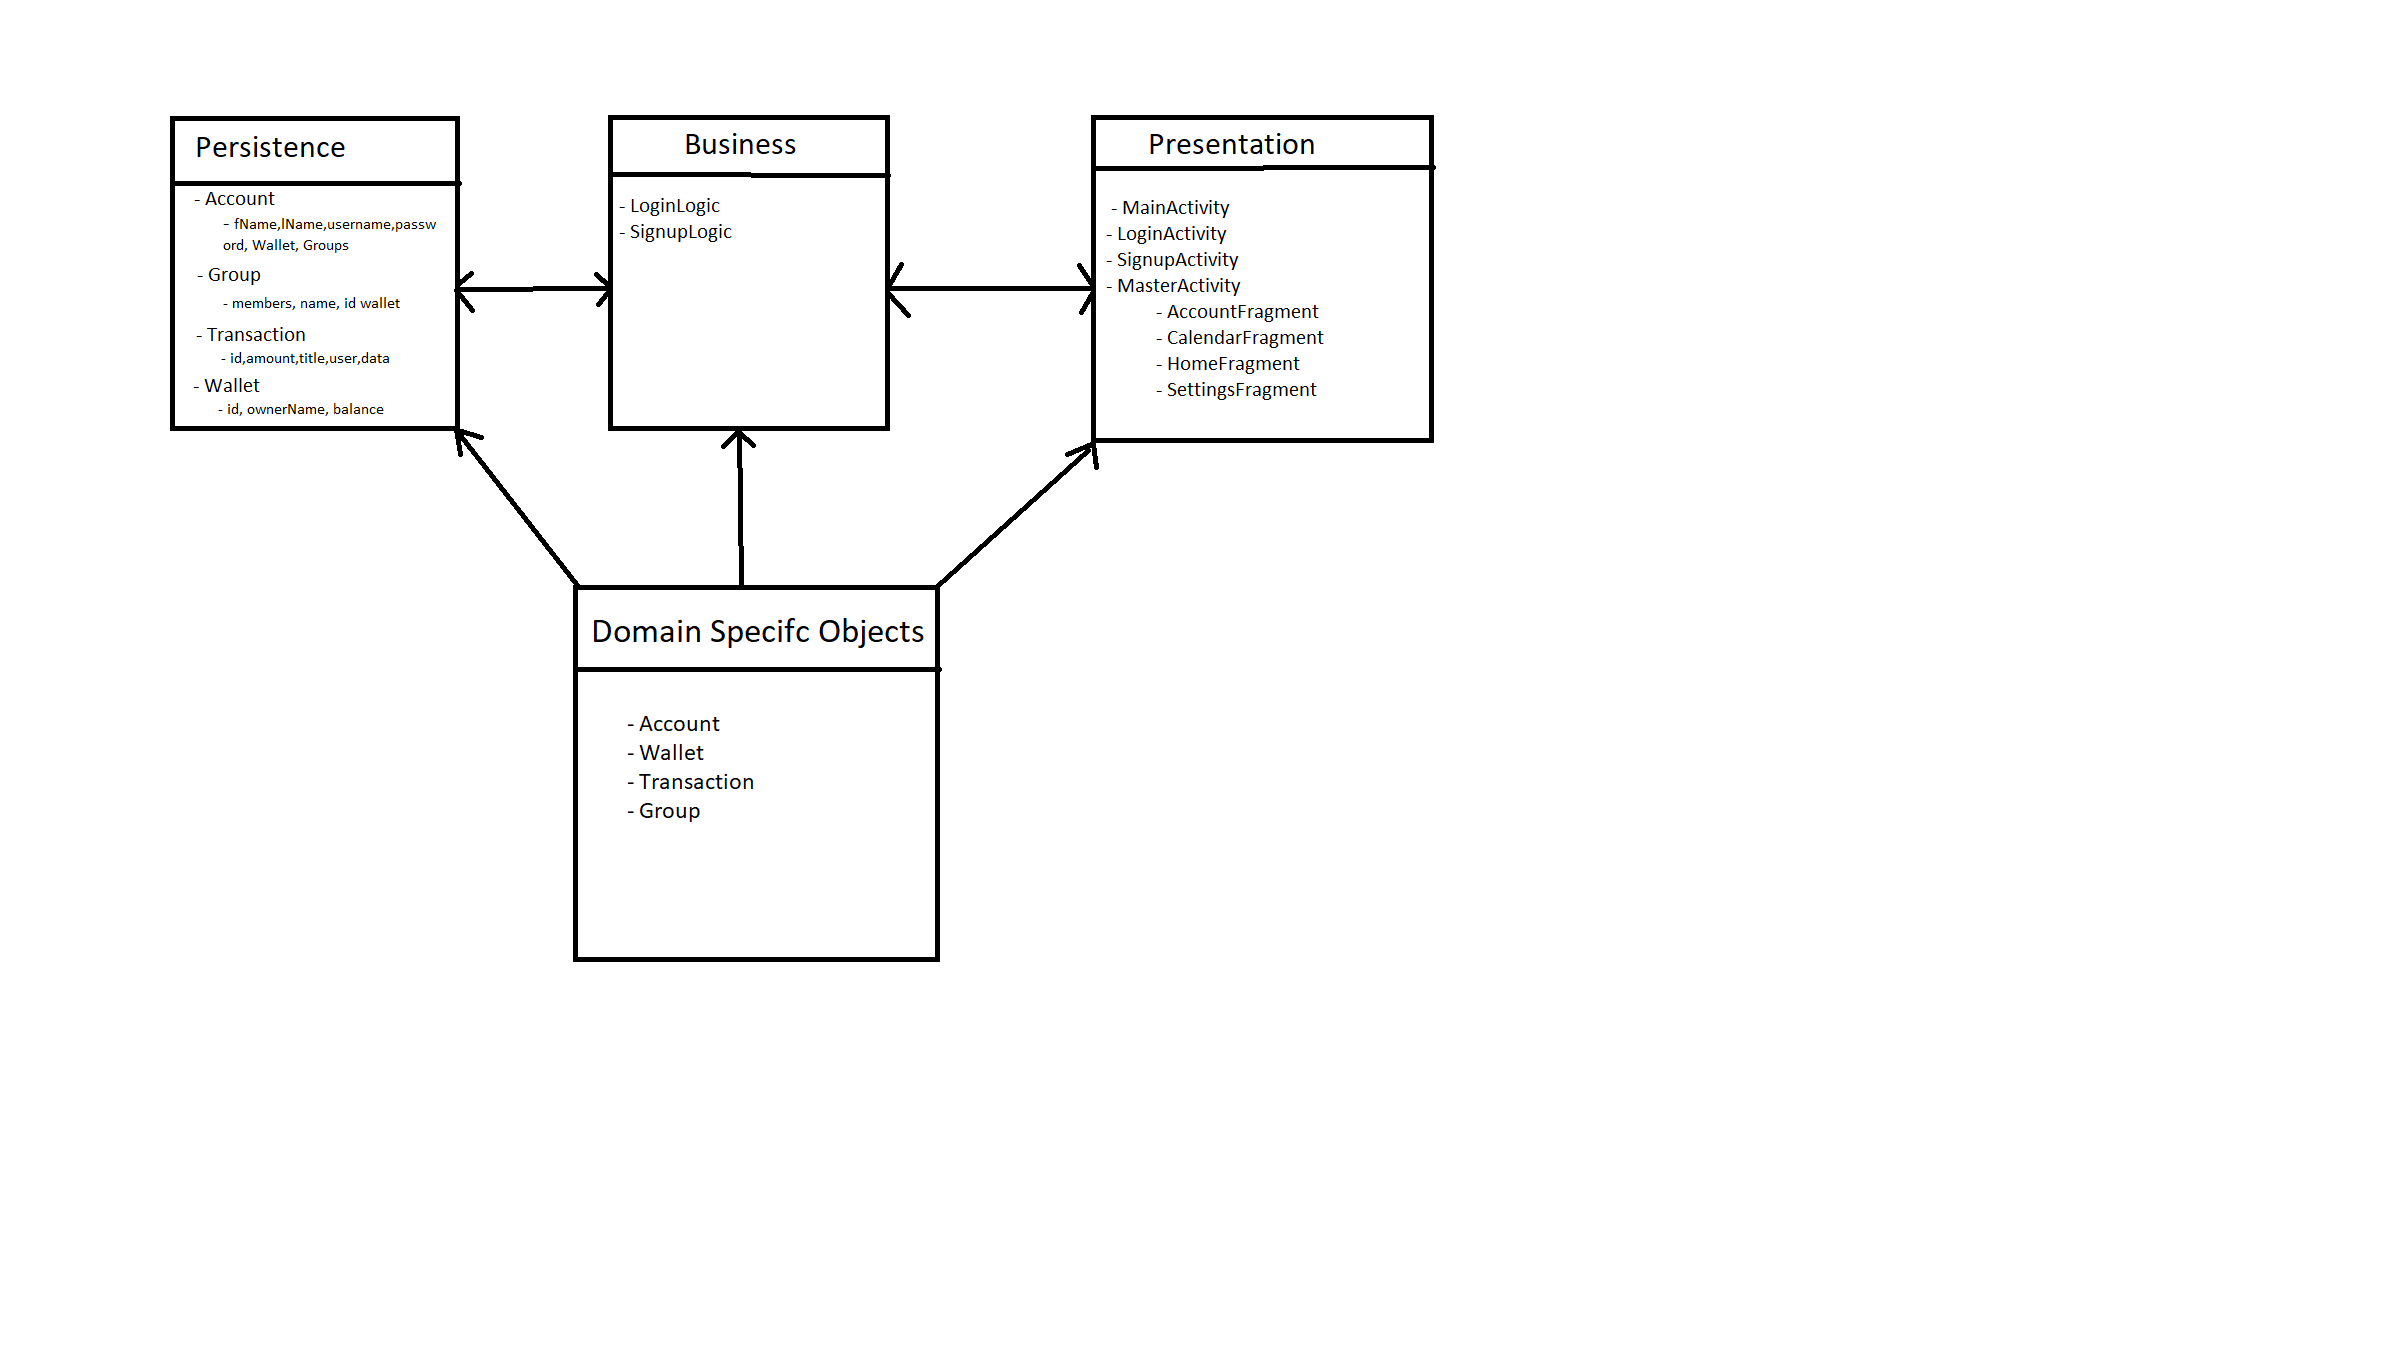
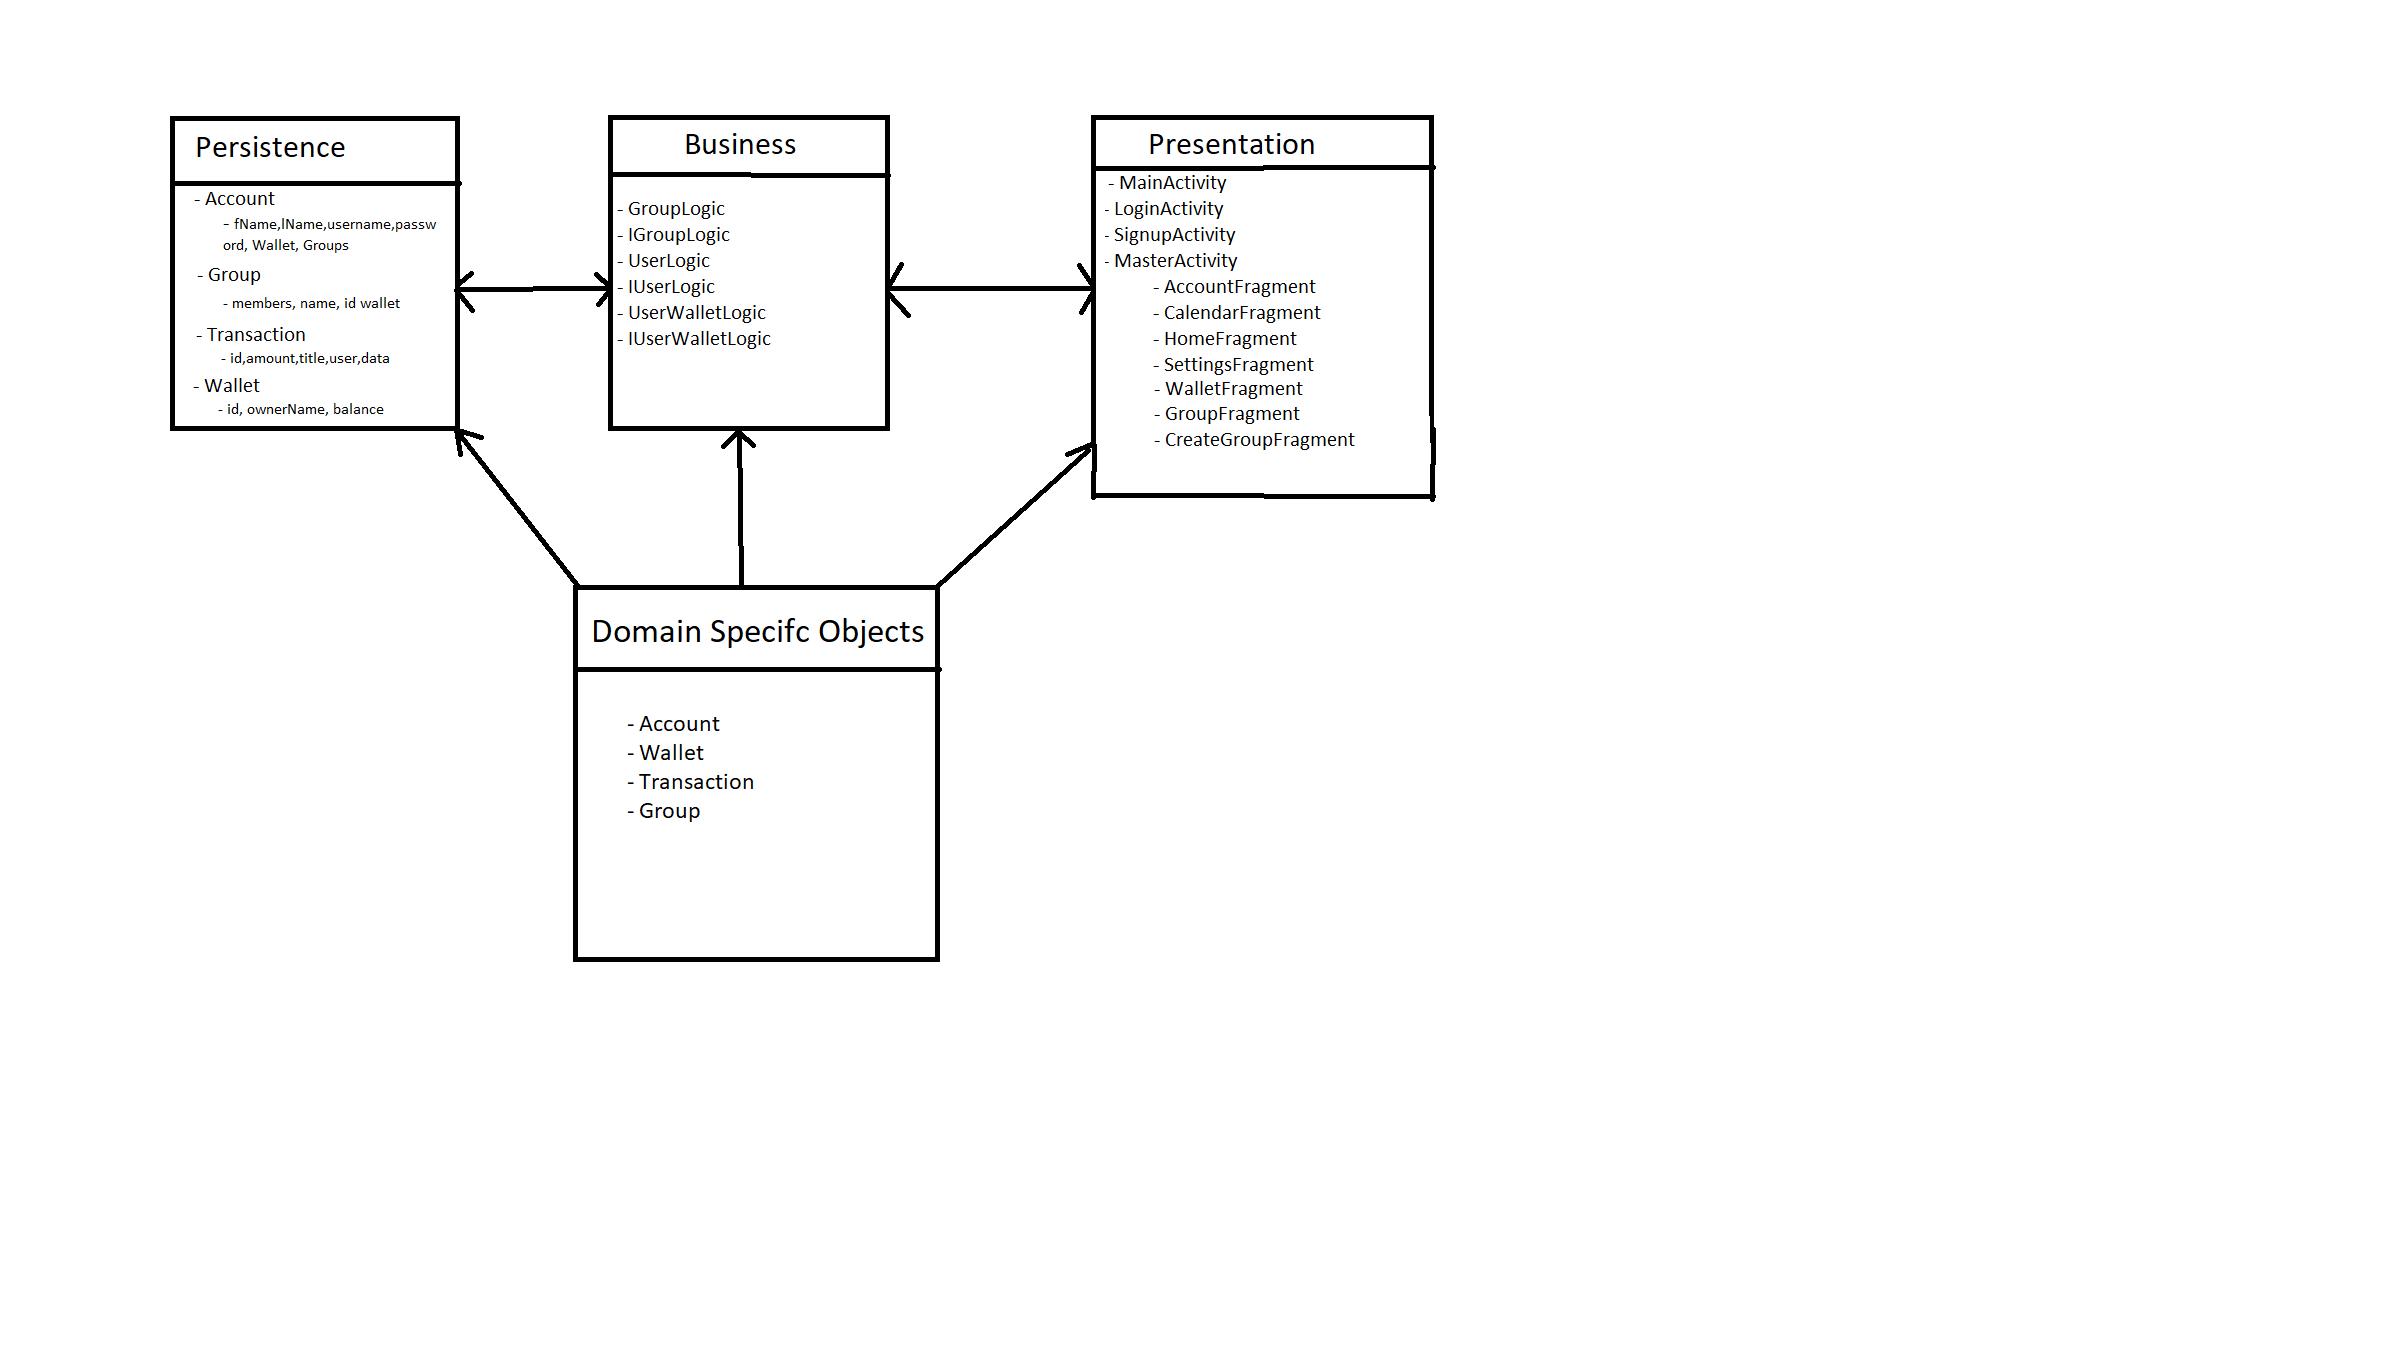
finish iteration 2 documentation

Changed region(s): [[0.436, 0.1248, 0.5918, 0.3744], [0.2492, 0.156, 0.3115, 0.2808]]

diff --git a/Documentation/iteration2_worksheet.md b/Documentation/iteration2_worksheet.md
@@ -1,0 +1,23 @@
+# Iteration 2 Worksheet
+
+Paying off technical debt
+-------------------------
+- the technical debt we are currently paying off stems from overusing concrete classes instead of making abstract interface classes and using dependency injection. This design allows for a more flexable use of objects within a class, and in our case required objects to be reworked to make fit our new design as our application evolves. We had to move logic out of these classes and alter the existing instance variables. We feel this was a prudent deliberate type of technical debt as we knew better, but were still figuring things out and trying to get our classes together. [Link to commit](https://code.cs.umanitoba.ca/3350-winter-2021-a01/weBudget/-/commit/cfbaf14f99aa21938b815c34d783d4ecaa52c033)
+- the second instance of technical debt we are paying off is another instance of relying on a concrete class that didnt work with a database for storing objects. The constructor assumed we had an altogether new object and auto incremented the ID. Now we create new objects when we grab their data from the database to work with that data. This resulted in our constructors needing to be re-worked to accomodate this new design. We classify this as prudent inadvertant becase at the time we did not know how we were going to interact and store objects in the database and did the best we could with the knowledge we had. [Link to commit](https://code.cs.umanitoba.ca/3350-winter-2021-a01/weBudget/-/commit/e72998a4f1384f16dc937a8d8e9c4d6790c5496d)
+
+SOLID
+------
+- [Link](https://code.cs.umanitoba.ca/3350-winter-2021-a02/group-4/group4project/-/issues/27) to issue created in Group 4 A02 repository. 
+
+
+Retrospective
+-------------
+- In our retrospective we decided we needed to have a more even distribution of tasks, and do a better job at tracking the development tasks. This is prevelant in our closed [dev tasks](https://code.cs.umanitoba.ca/3350-winter-2021-a01/weBudget/-/issues?scope=all&utf8=%E2%9C%93&state=closed) for this iteration compared to the last iteration. We have an abundance of dev tasks for iteration two with even distribution among all members of the group.
+
+Design Patterns
+----------------
+- In our [Services.java](https://code.cs.umanitoba.ca/3350-winter-2021-a01/weBudget/-/blob/develop/app/src/main/java/com/comp3350/webudget/application/Services.java) code we used the "Singleton" design pattern to ensure only one instance of our specific databases exist in our application. Since all instances of the database are acquired through Services it adds a nice safeguard in place to ensure multiple instances cannot be passed around.
+
+Iteration 1 Feedback Fixes
+--------------------------
+- The [graders issue](https://code.cs.umanitoba.ca/3350-winter-2021-a01/weBudget/-/issues/46) was that we were printing to standard output when we should have been throwing errors in our domain specific object. What we did to address this issue was take this logic out of the domain specific object and put it in the logic layer, where we are throwing errors rather than printing to standard output. [Link to commit](https://code.cs.umanitoba.ca/3350-winter-2021-a01/weBudget/-/commit/ae004ad8c07dda6357dc34d3755e413eba5795a1).

diff --git a/README.md b/README.md
@@ -1,6 +1,7 @@
 
 # weBudget - The Collaborative Budget System
 - [Iteration 1 Worksheet](https://code.cs.umanitoba.ca/3350-winter-2021-a01/weBudget/-/blob/master/Documentation/iteration1_worksheet.md)
+- [Iteration 2 Worksheet](https://code.cs.umanitoba.ca/3350-winter-2021-a01/weBudget/-/blob/master/Documentation/iteration2_worksheet.md)
 - [Vision Statement](https://code.cs.umanitoba.ca/3350-winter-2021-a01/weBudget/-/blob/master/Documentation/Vision_Statement.md)
 - [Branching Strategy](https://code.cs.umanitoba.ca/3350-winter-2021-a01/weBudget/-/blob/master/Documentation/Branching_Strategy.md)
 - [Architecture](https://code.cs.umanitoba.ca/3350-winter-2021-a01/weBudget/-/blob/master/Documentation/Architecture.md)
